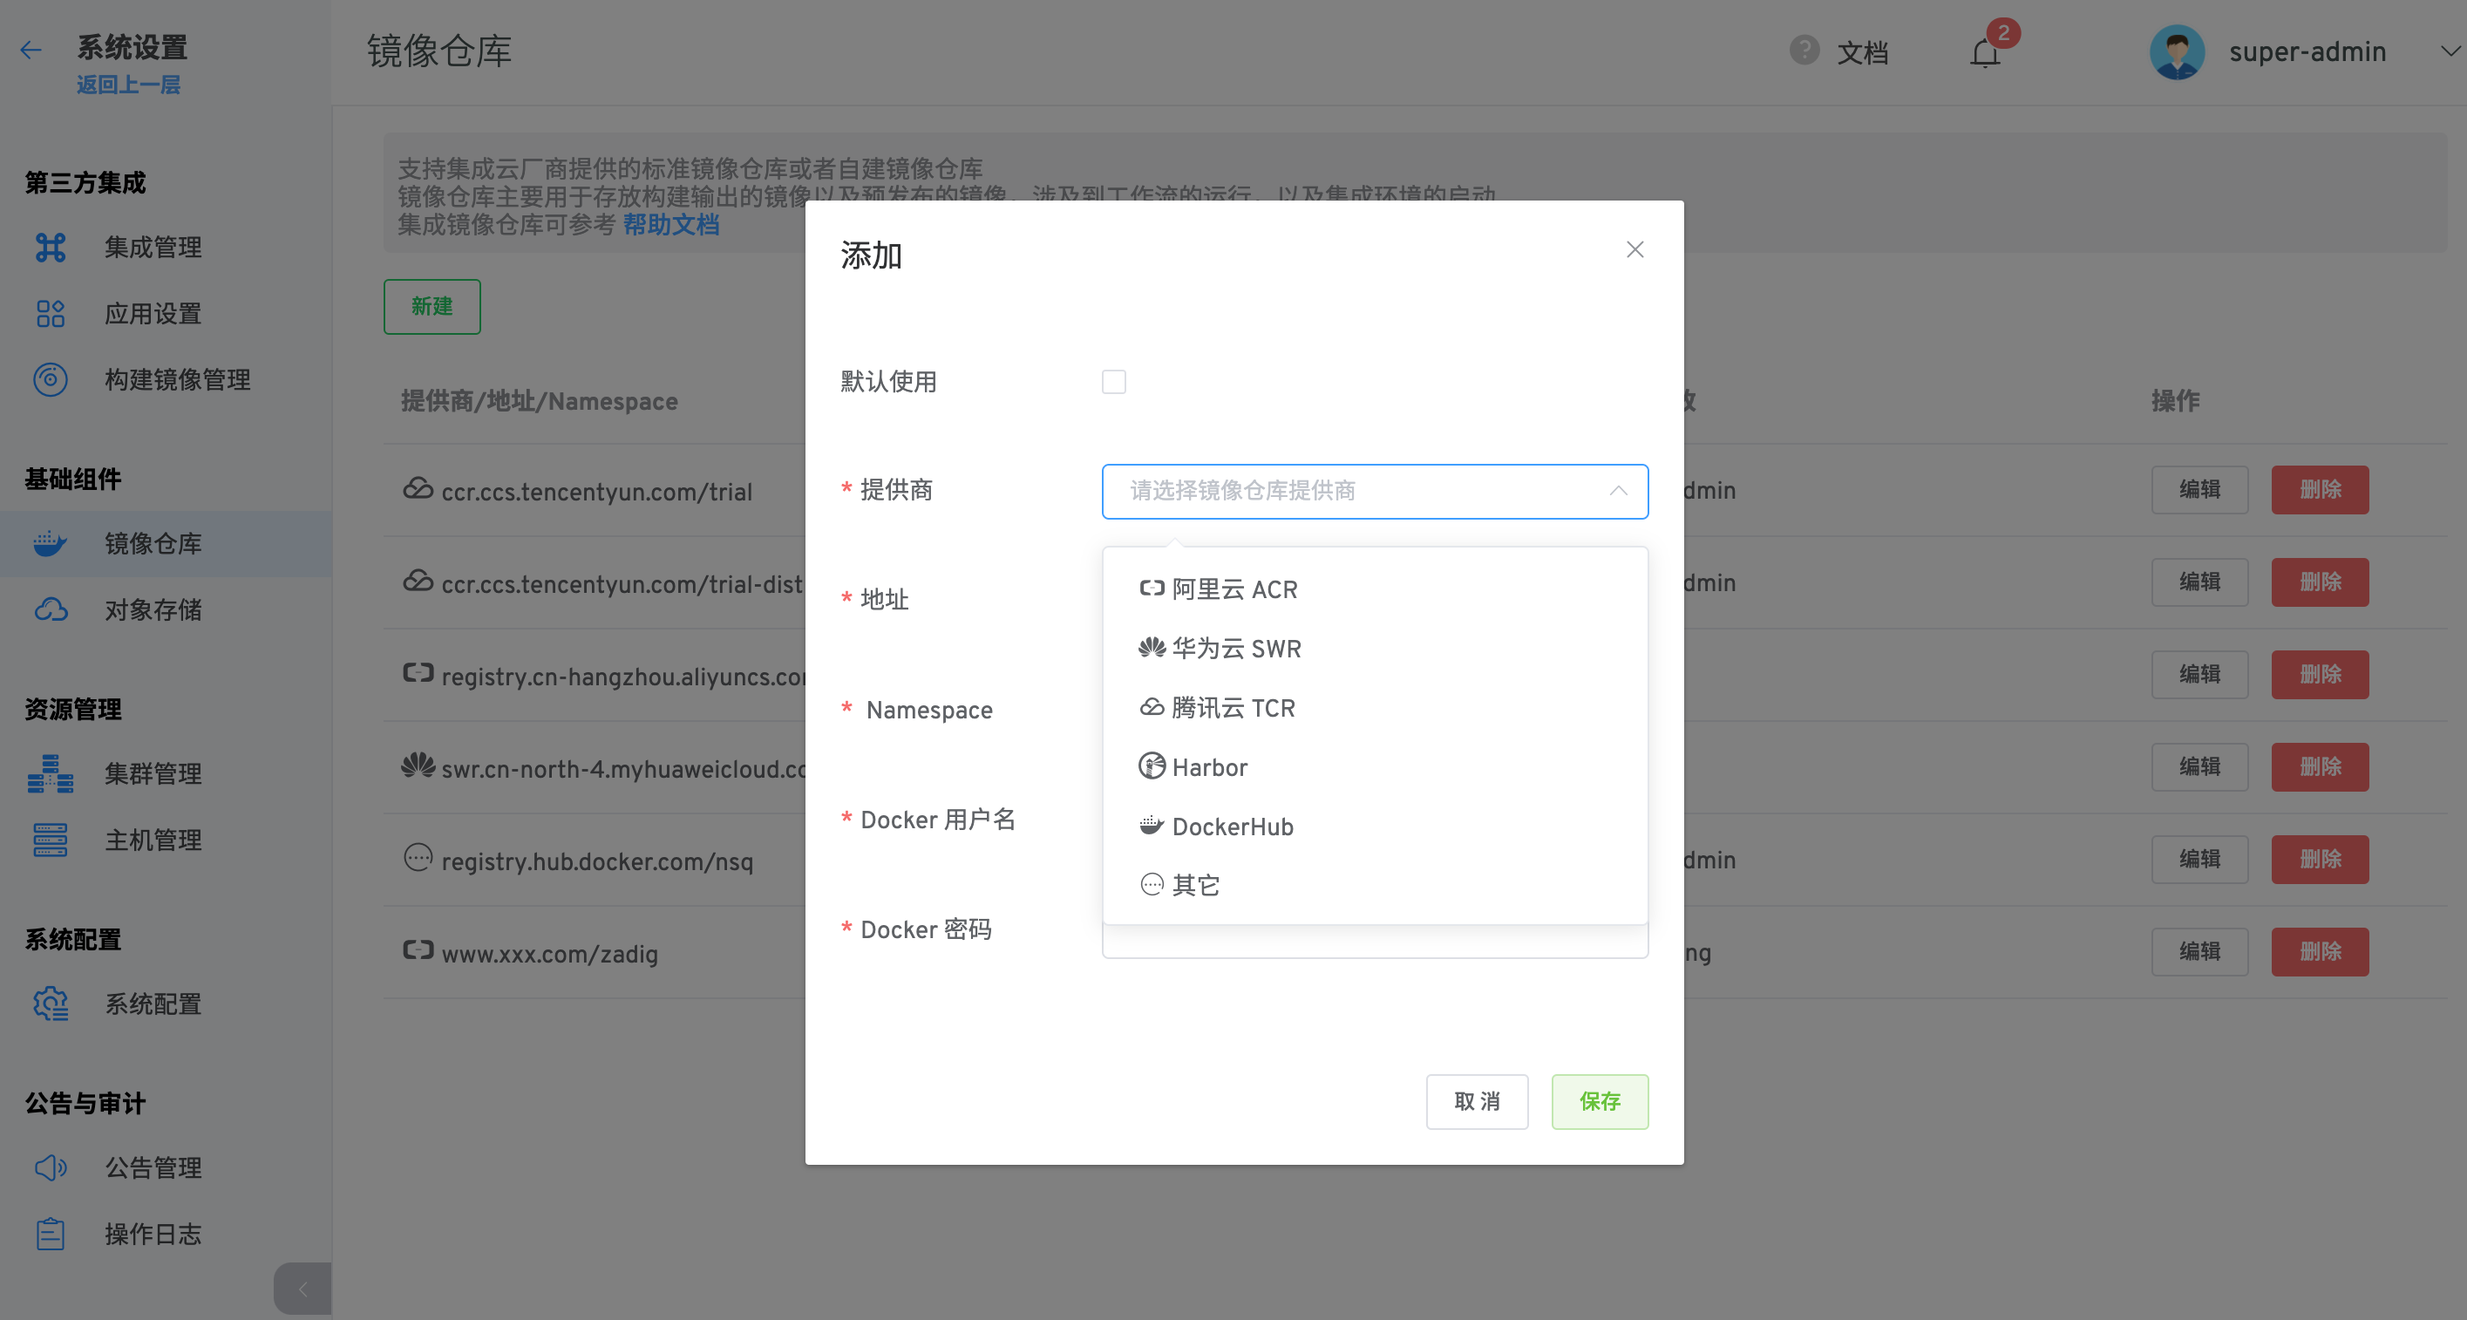
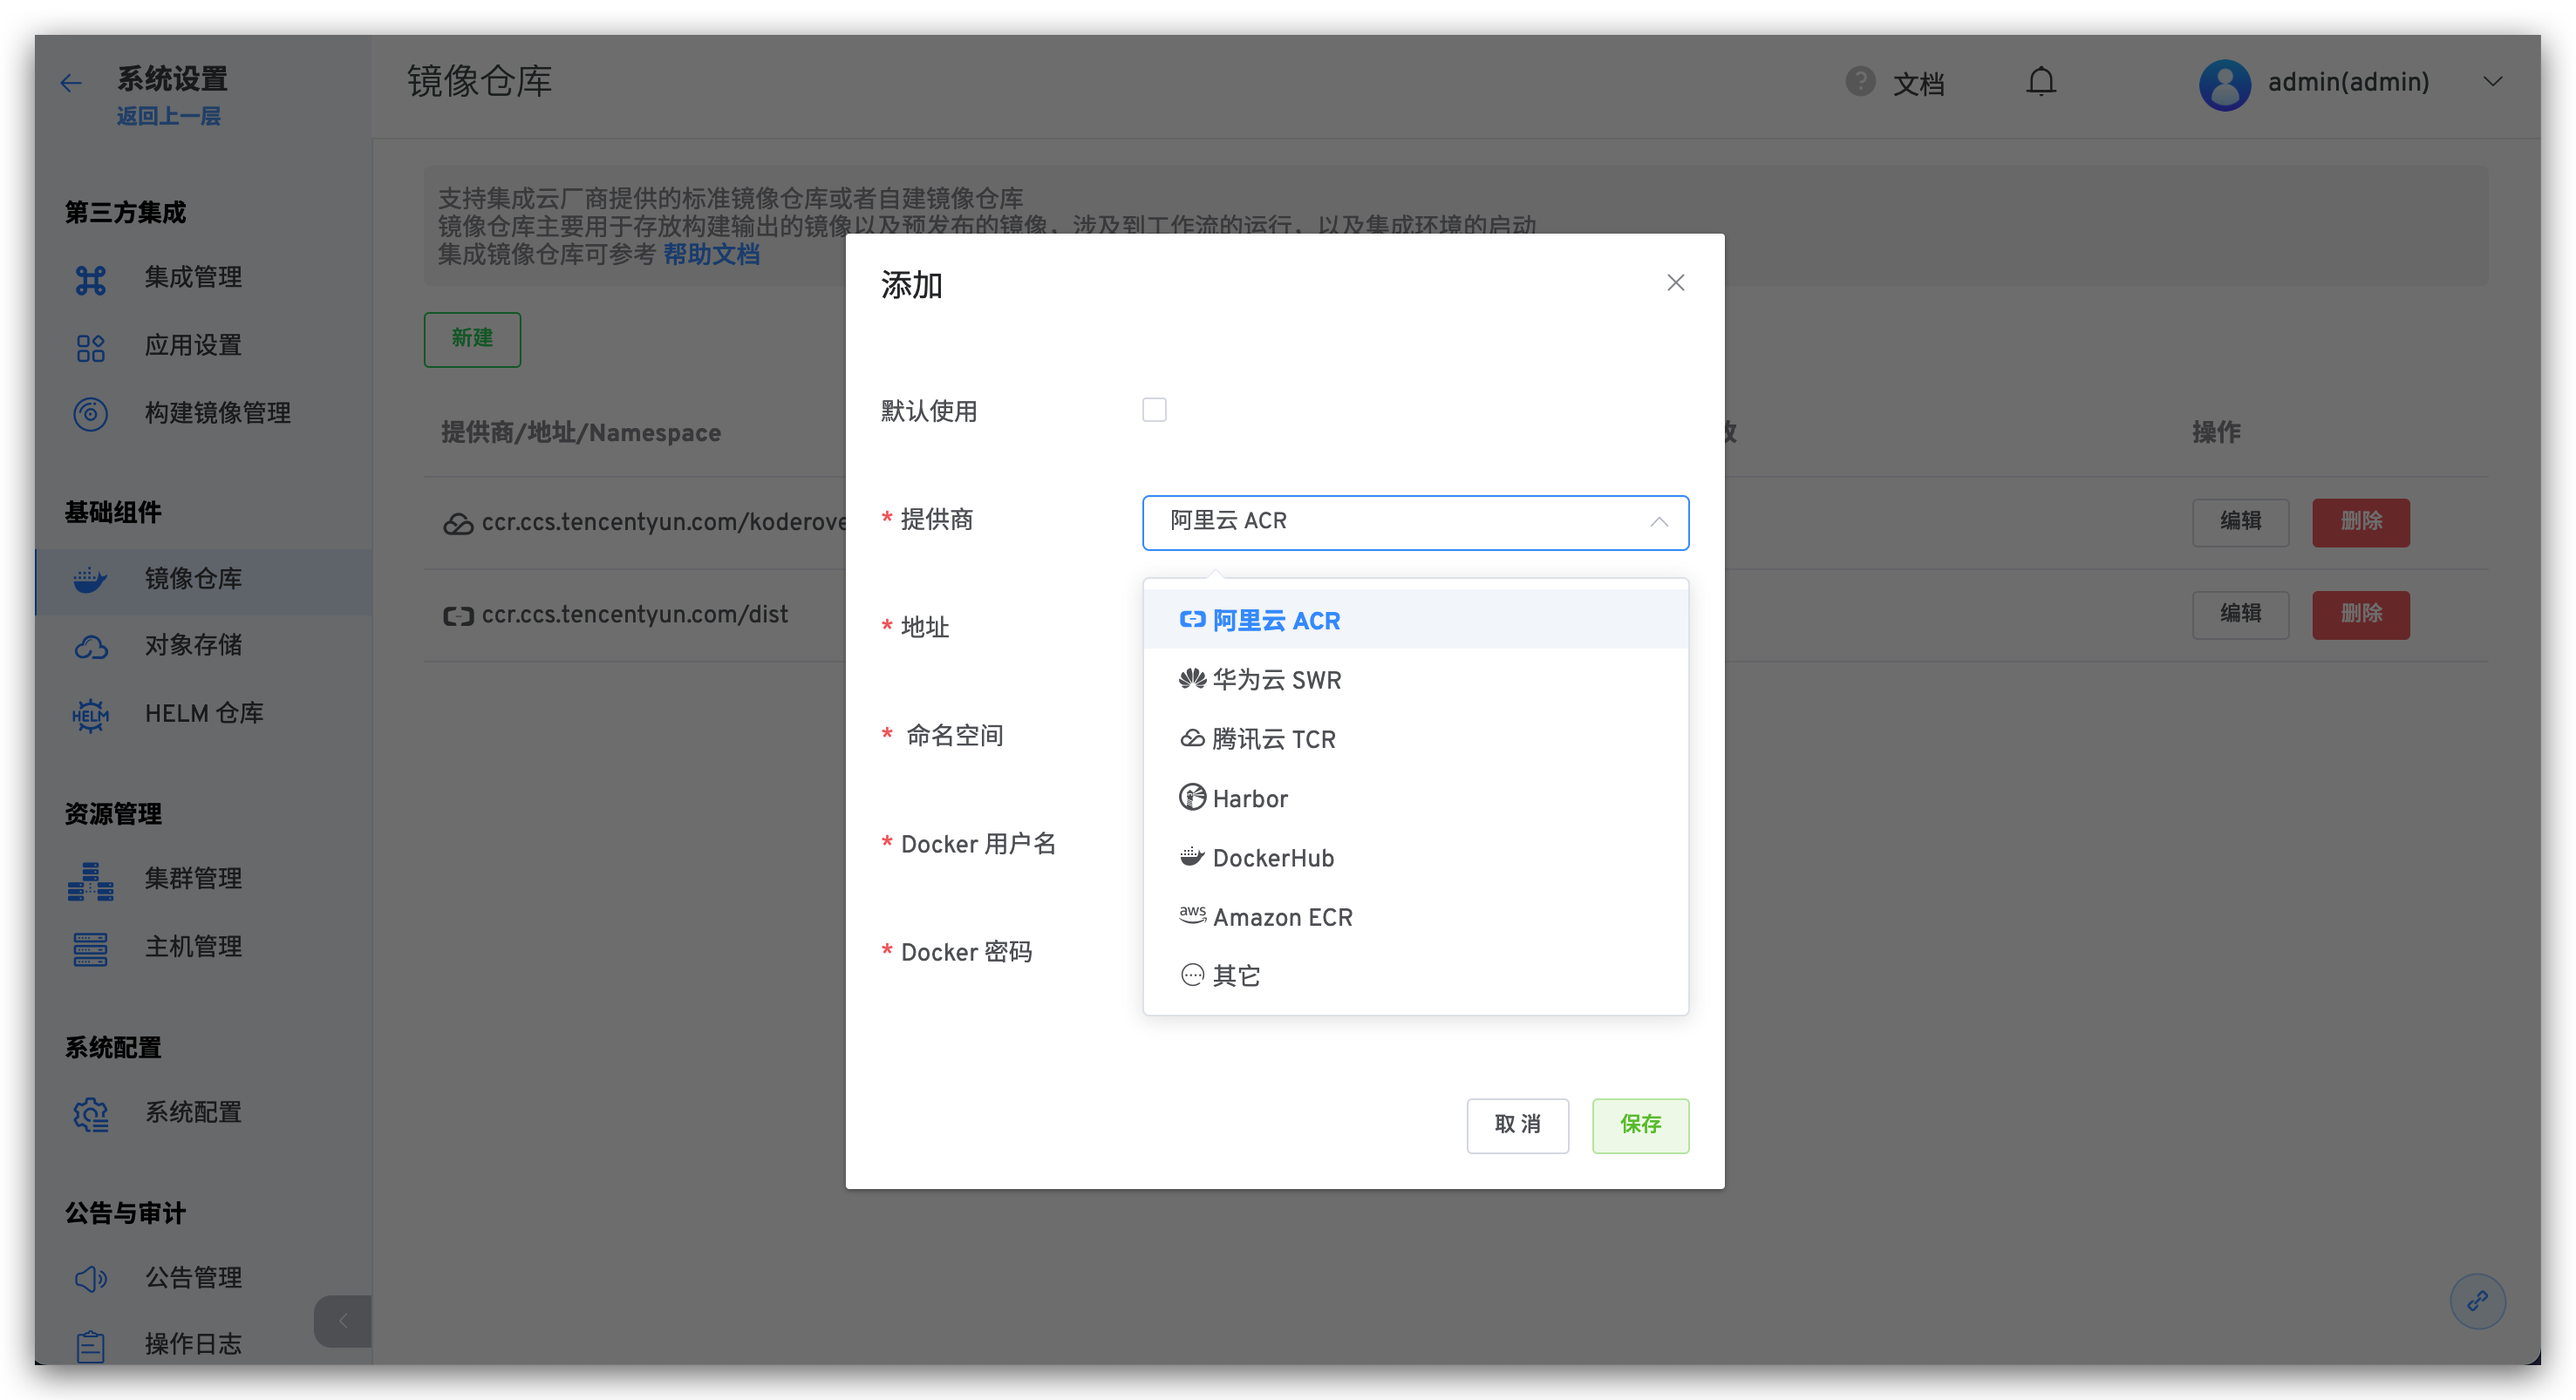
AWS ECR support

diff --git a/dev/09.系统设置/06.registry_manage.md b/dev/09.系统设置/06.registry_manage.md
@@ -8,14 +8,14 @@ permalink: /dev/settings/image-registry/
 
 ## 添加镜像仓库
 
-点击 `系统设置` -> `镜像仓库` -> `新建`
+点击 `系统设置` -> `镜像仓库` -> `新建`，按需选择对应的提供商
 
 ![reg](./_images/reg_add.png)
 
 参数说明：
 
-- `默认使用`：指定默认镜像仓库，工作流的构建、部署和集成环境中更新镜像都会默认使用该镜像仓库
-- `提供商`：选择阿里云 ACR、华为云 SWR、腾讯云 TCR、Harbor、DockerHub、其他 Registry 标准对接
+- `默认使用`：若设置为`默认使用`，新建集成环境时会默认使用该镜像仓库
+- `提供商`：支持阿里云 ACR、华为云 SWR、腾讯云 TCR、Harbor、DockerHub、Amazon ECR 及其他 Registry 标准对接
 - `地址`：镜像仓库地址
 - `Namespace`：空间名称
 - `Docker 用户名`：镜像仓库 `Docker 用户名`
